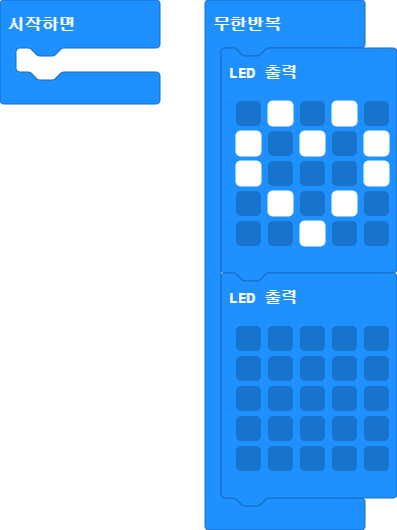
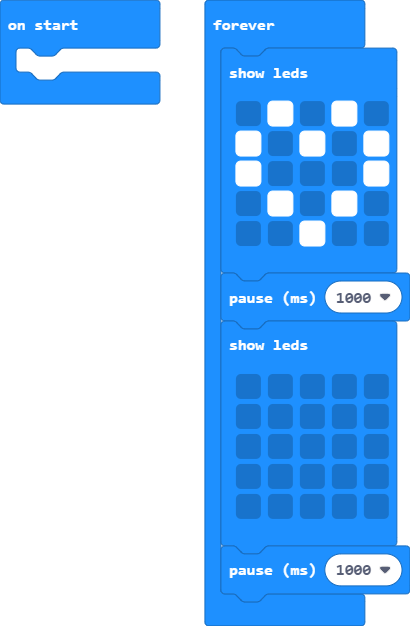
Update main.blocks, main.ts

Changed region(s): [[0.4836, 0.0, 1.0, 1.0], [0.0, 0.0, 0.4232, 0.2113]]

diff --git a/main.ts b/main.ts
@@ -6,6 +6,7 @@ basic.forever(function () {
         . # . # .
         . . # . .
         `)
+    basic.pause(1000)
     basic.showLeds(`
         . . . . .
         . . . . .
@@ -13,4 +14,5 @@ basic.forever(function () {
         . . . . .
         . . . . .
         `)
+    basic.pause(1000)
 })
